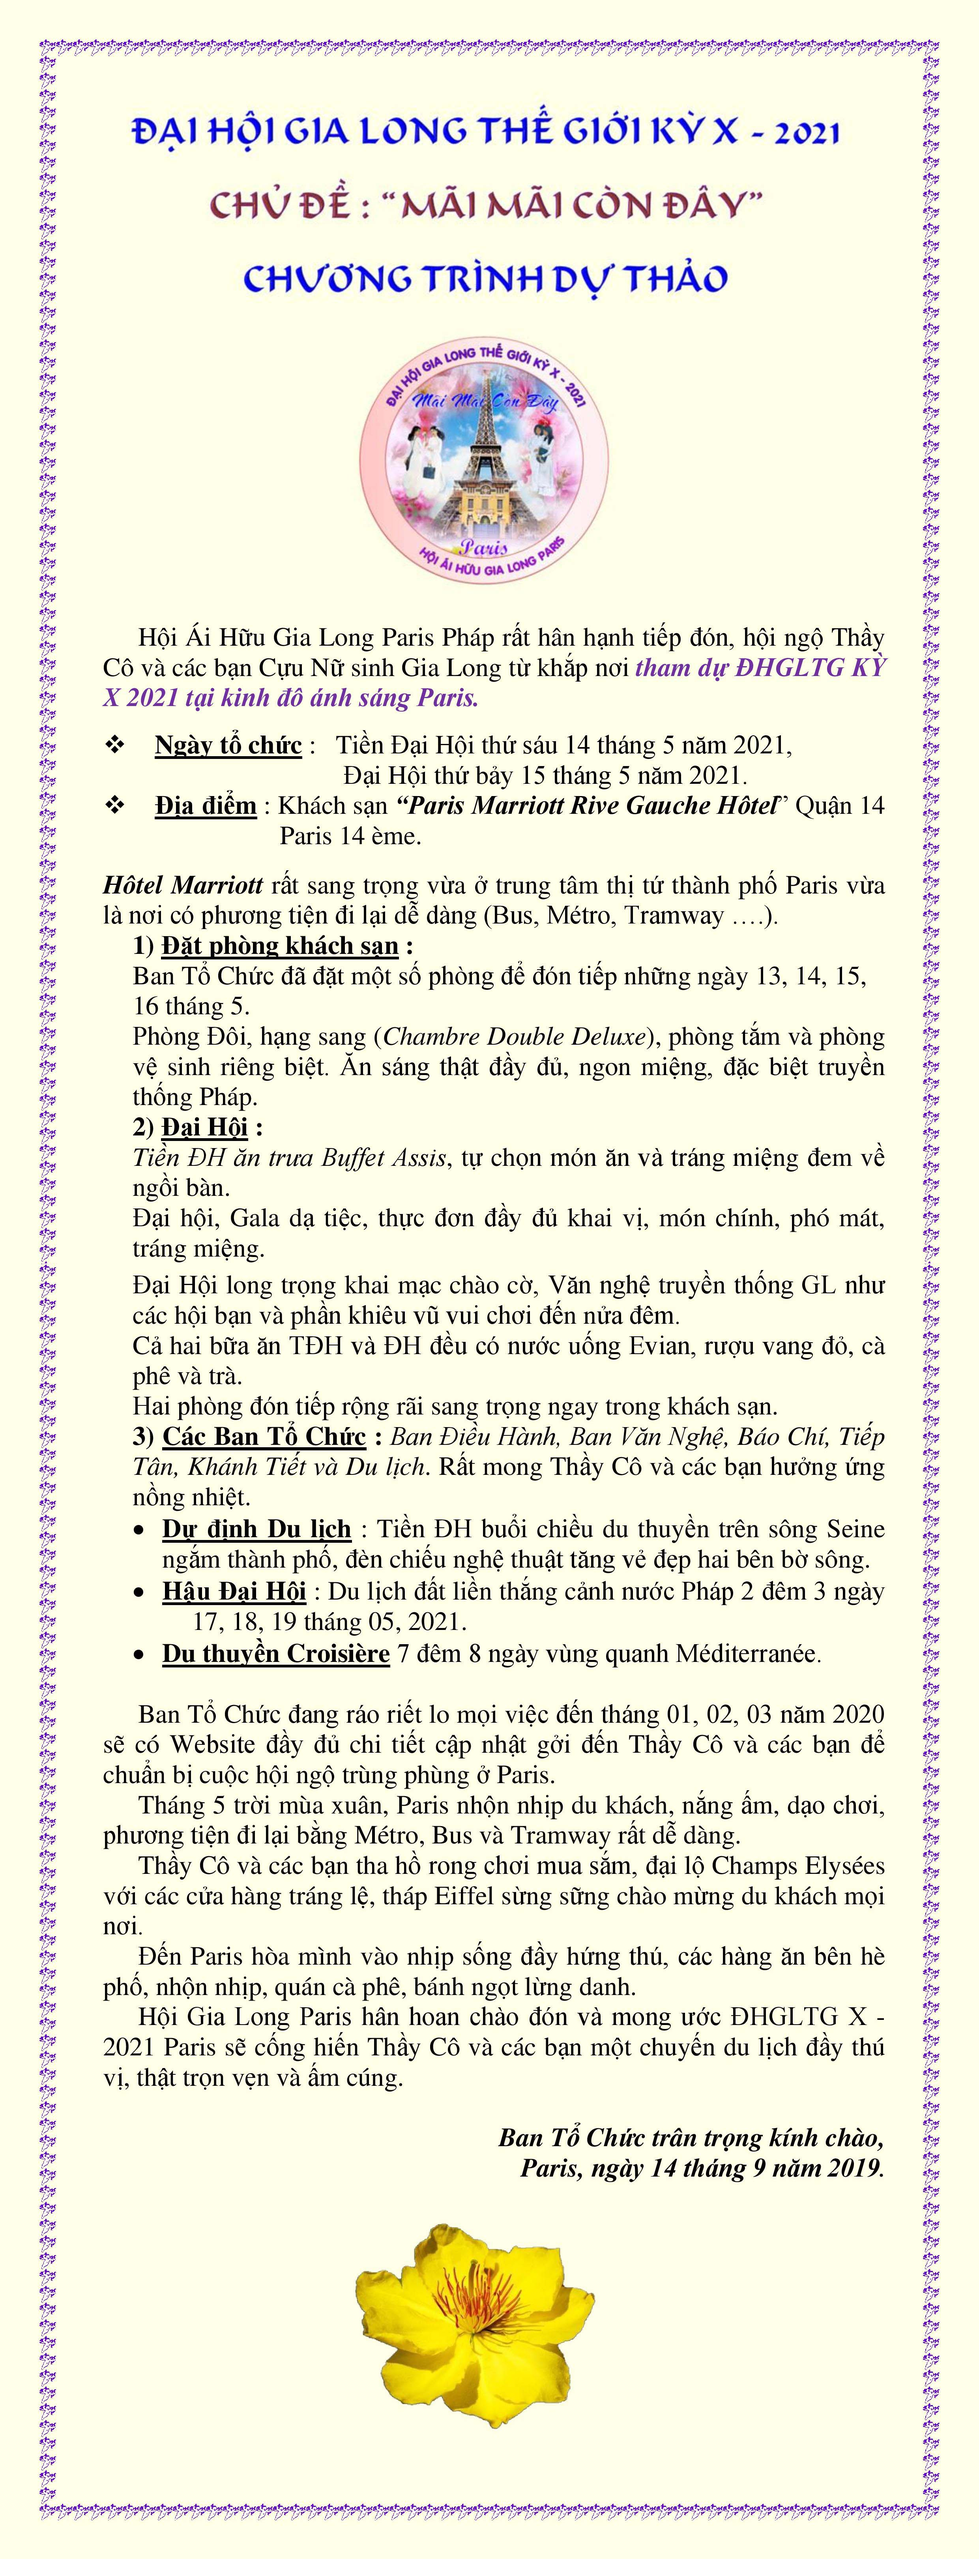
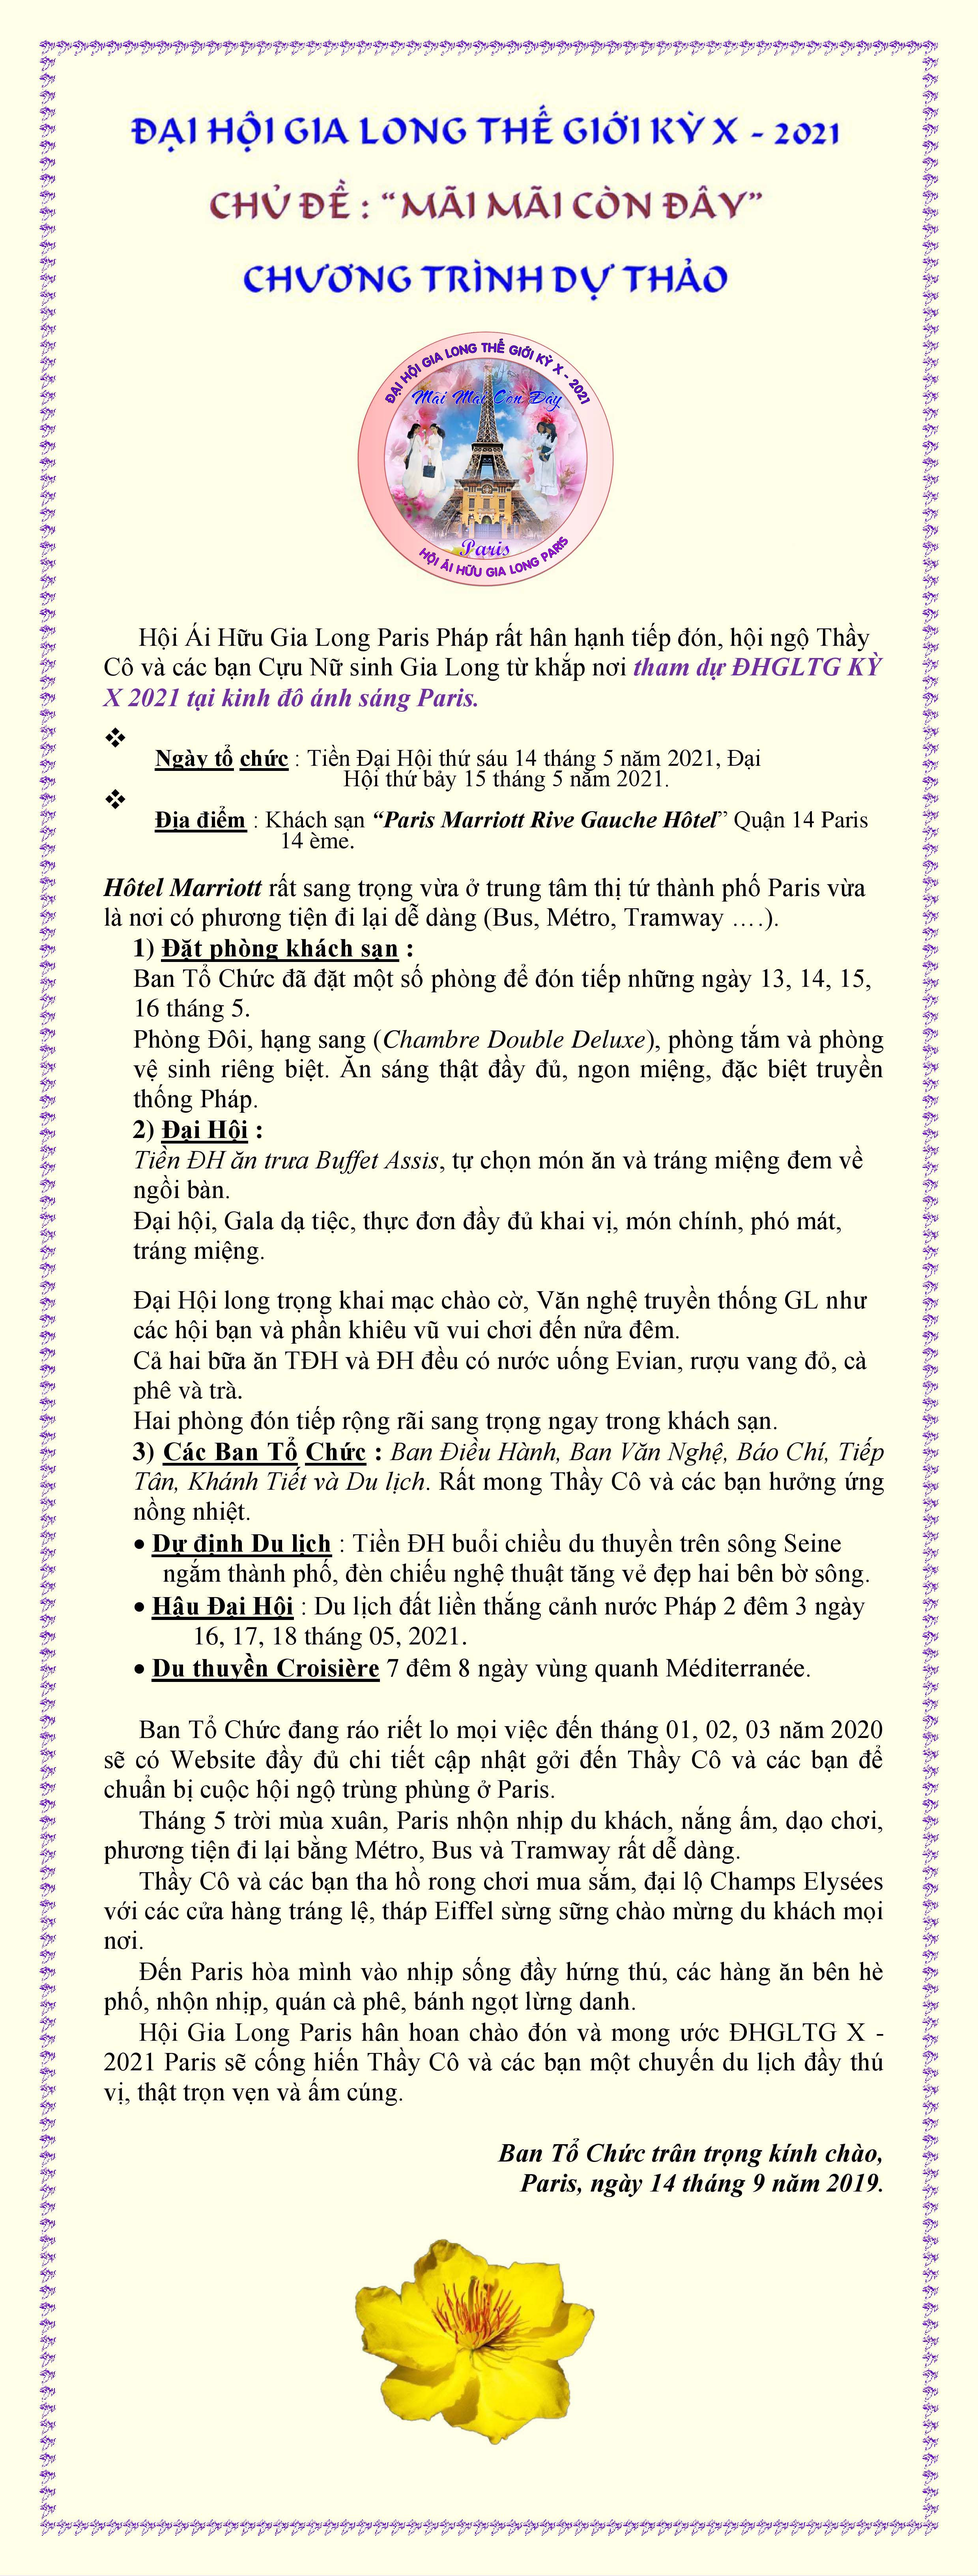
21-10-19

diff --git a/content/ThuMoi.html b/content/ThuMoi.html
@@ -106,7 +106,7 @@
 
 
       <div class="jumbotron">
-        <a style="text-decoration:none;cursor:default;" href="#"><img src="../images/ThuMoi.jpg" alt="" class="responsiveImage1" oncontextmenu="return false" onclick="return false"></a>
+        <a style="text-decoration:none;cursor:default;" href="#"><img src="../images/ThuMoi.jpg" alt="" class="responsiveImage2" oncontextmenu="return false" onclick="return false"></a>
       </div>
 
     </div>

diff --git a/site.css b/site.css
@@ -23,6 +23,13 @@ body{
   margin-left:auto;
   margin-right:auto;
 }
+.responsiveImage2{
+  width: 80%;
+  height: auto;
+  display:block;
+  margin-left:auto;
+  margin-right:auto;
+}
 
 /* For width 1000px and smaller: */
 @media only screen and (max-width: 1000px) {
@@ -31,7 +38,7 @@ body{
   }
 }
 .ThuNgoImage{
-  width: 85%;
+  width: 90%;
   height: auto;
   margin-top: 30px;
   margin-bottom: 15px;

diff --git a/content/DuThaoChuongTrinh.html b/content/DuThaoChuongTrinh.html
@@ -106,7 +106,7 @@
 
 
       <div class="jumbotron">
-        <img src="../images/DuThaoChuongTrinh.jpg" alt="" class="responsiveImage1">
+        <img src="../images/DuThaoChuongTrinh.jpg" alt="" class="responsiveImage2">
       </div>
 
     </div>

diff --git a/content/GiaoSuCoVan.html b/content/GiaoSuCoVan.html
@@ -106,7 +106,7 @@
 
 
       <div class="jumbotron">
-        <img src="../images/GsCoVan.jpg" alt="" class="responsiveImage1">
+        <img src="../images/GsCoVan.jpg" alt="" class="responsiveImage2">
       </div>
 
     </div>
